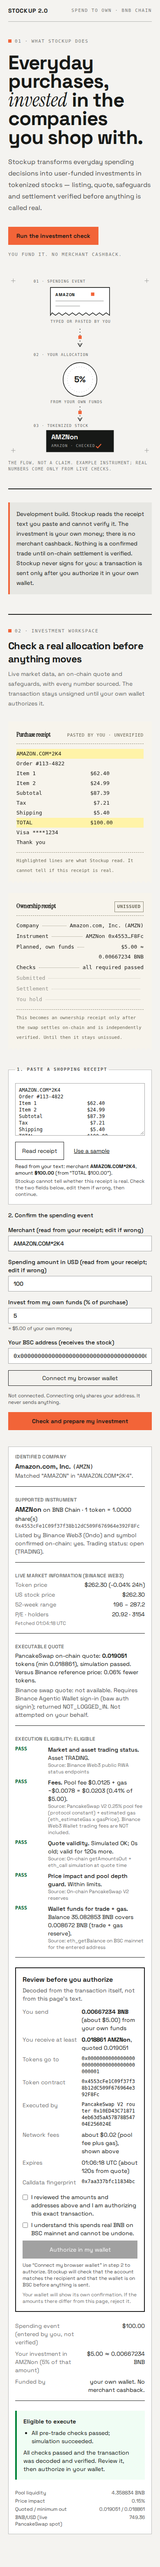
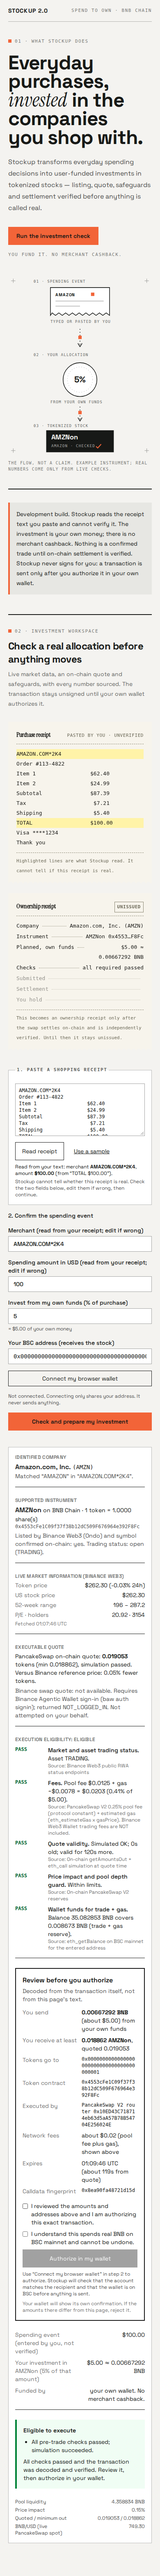
design probe: 1440px + 390px evidence set (landing + populated workspace, read-only live check); retire superseded 1280px captures

Changed region(s): [[0.0308, 0.0312, 0.9538, 0.9658], [0.8, 0.9658, 0.8923, 0.997], [0.8615, 0.2492, 0.8923, 0.3116]]

diff --git a/docs/evidence/design-probe/README.md b/docs/evidence/design-probe/README.md
@@ -1,8 +1,9 @@
 # Design probe evidence (dev/design-probe)
 
-Captured from the production build served locally (`next start`), desktop-first plus 390px mobile.
+Captured from the production build served locally (`next start`). Desktop 1440px (judging-video width) and mobile 390px. Zero horizontal overflow, no console/page errors at both widths.
 
-- `probe-desktop-1280-full.png`, `probe-mobile-390-full.png` — first fold + empty workspace, full page.
-- `probe-workspace-desktop-1280-full.png`, `probe-workspace-mobile-390-full.png` — workspace populated by a READ-ONLY live check (`POST /api/own`): BSC reads, Binance public data, PancakeSwap quote + `eth_call`. Nothing was signed or sent. The recipient used is the placeholder `0x…0001`; the wallet-funds check read its real mainnet balance. No wallet extension was connected; the Authorize button stayed disabled and no transaction was built for sending.
-- Live values in the captures (AMZNon $262.30, quote 0.019050, pool 4.365 BNB) are real mainnet data at capture time (~01:05 UTC 2026-10-11) and will drift.
-- Checks: zero horizontal overflow, no console/page errors at both widths.
+- `probe-landing-desktop-1440-full.png` — first fold + empty workspace, full page.
+- `probe-landing-mobile-390-full.png` — same at 390px.
+- `probe-workspace-desktop-1440-full.png` — workspace populated by a READ-ONLY live check (`POST /api/own`): BSC reads, Binance public data, PancakeSwap quote + `eth_call`. Nothing signed or sent; no wallet connected; Authorize stayed disabled. Recipient is the placeholder `0x…0001`; the wallet-funds check read its real mainnet balance.
+- `probe-workspace-mobile-390-full.png` — same at 390px.
+- Live values (AMZNon $262.30, quote 0.019050, pool 4.365 BNB) are real mainnet data at capture time (~01:08 UTC 2026-10-11) and will drift.

diff --git a/docs/CURRENT_STATE.md b/docs/CURRENT_STATE.md
@@ -216,3 +216,6 @@ Last updated: 2026-10-10 ~18:50 UTC (VPS clock). Branch `dev/foundation`. Latest
 - Populated-workspace evidence captured at 1280px and 390px: identification, instrument+listing checks, live Binance market data, PancakeSwap quote vs reference, all six execution checks with sources, decoded review panel, allocation summary, guard verdict. Zero overflow, no console/page errors.
 - Gates re-run: typecheck OK; 86/86 tests; production build OK.
 - Evidence: docs/evidence/design-probe/ (README describes conditions honestly). Commit on dev/design-probe; main untouched; not deployed; repo private.
+
+## Design probe evidence set (dev/design-probe, 2026-10-11 ~01:10 UTC VPS clock)
+- Re-captured at 1440px (judging-video width) + 390px: landing fold and populated workspace. Superseded 1280px captures removed from HEAD (history keeps them). Zero overflow, no errors at all four widths/2 viewports. Commit follows.
